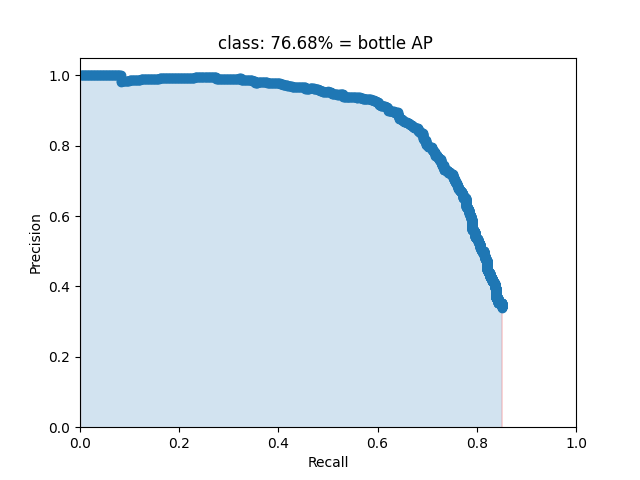
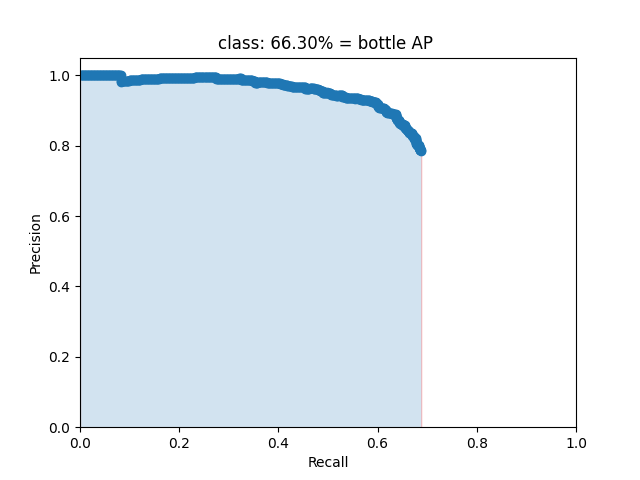
some color changes and add infomation in order to analysis clearly!

diff --git a/mAP/main.py b/mAP/main.py
@@ -9,7 +9,7 @@ import math
 
 import numpy as np
 
-MINOVERLAP = 0.3 # default value (defined in the PASCAL VOC2012 challenge)
+MINOVERLAP = 0.5 # default value (defined in the PASCAL VOC2012 challenge)
 
 parser = argparse.ArgumentParser()
 parser.add_argument('-na', '--no-animation', help="no animation is shown.", action="store_true")
@@ -246,6 +246,7 @@ def draw_plot_func(dictionary, n_classes, window_title, plot_title, x_label, out
     if true_p_bar != "":
         """
          Special case to draw in:
+            - blue -> Ground-truth
             - green -> TP: True Positives (object detected and matches ground-truth)
             - red -> FP: False Positives (object detected but does not match ground-truth)
             - pink -> FN: False Negatives (object not detected but present in the ground-truth)
@@ -602,9 +603,9 @@ with open(output_files_path + "/output.txt", 'w') as output_file:
                 height, widht = img.shape[:2]
                 # colors (OpenCV works with BGR)
                 white = (255,255,255)
-                light_blue = (255,200,100)
-                green = (0,255,0)
-                light_red = (30,30,255)
+                light_blue = (229,205,113)
+                green = (216,244,181)
+                light_red = (85,85,255)
                 # 1st line
                 margin = 10
                 v_pos = int(height - margin - (bottom_border / 2.0))
@@ -634,15 +635,19 @@ with open(output_files_path + "/output.txt", 'w') as output_file:
                 font = cv2.FONT_HERSHEY_SIMPLEX
                 if ovmax > 0: # if there is intersections between the bounding-boxes
                     bbgt = [ int(round(float(x))) for x in gt_match["bbox"].split() ]
-                    cv2.rectangle(img,(bbgt[0],bbgt[1]),(bbgt[2],bbgt[3]),light_blue,2)
-                    cv2.rectangle(img_cumulative,(bbgt[0],bbgt[1]),(bbgt[2],bbgt[3]),light_blue,2)
-                    cv2.putText(img_cumulative, class_name, (bbgt[0],bbgt[1] - 5), font, 0.5, (0,0,0), 2, cv2.LINE_AA)
-                    cv2.putText(img_cumulative, class_name, (bbgt[0],bbgt[1] - 5), font, 0.5, light_blue, 1, cv2.LINE_AA)
+                    cv2.rectangle(img,(bbgt[0],bbgt[1]),(bbgt[2],bbgt[3]),light_blue,3)
+                    cv2.rectangle(img_cumulative,(bbgt[0],bbgt[1]),(bbgt[2],bbgt[3]),light_blue,3)
+                    cv2.putText(img_cumulative, 'GT', (bbgt[0],bbgt[1] - 5), font, 0.5, (0,0,0), 7)
+                    cv2.putText(img_cumulative, 'GT', (bbgt[0],bbgt[1] - 5), font, 0.5, light_blue, 2)
                 bb = [int(i) for i in bb]
-                cv2.rectangle(img,(bb[0],bb[1]),(bb[2],bb[3]),color,2)
-                cv2.rectangle(img_cumulative,(bb[0],bb[1]),(bb[2],bb[3]),color,2)
-                cv2.putText(img_cumulative, class_name, (bb[0],bb[1] - 5), font, 0.5, (0,0,0), 2, cv2.LINE_AA)
-                cv2.putText(img_cumulative, class_name, (bb[0],bb[1] - 5), font, 0.5, color, 1, cv2.LINE_AA)
+                cv2.rectangle(img,(bb[0],bb[1]),(bb[2],bb[3]),color,3)
+                cv2.rectangle(img_cumulative,(bb[0],bb[1]),(bb[2],bb[3]),color,3)
+                if status == "MATCH!":
+                    cv2.putText(img_cumulative, f'{class_name} {round(float(detection["confidence"])*100)}%', (bb[0],bb[1] - 5), font, 0.5, (0,0,0), 7)
+                    cv2.putText(img_cumulative, f'{class_name} {round(float(detection["confidence"])*100)}%', (bb[0],bb[1] - 5), font, 0.5, color, 2)
+                else:
+                    cv2.putText(img_cumulative, f'FP ({status}) {round(float(detection["confidence"])*100)}%', (bb[0],bb[1] - 5), font, 0.5, (0,0,0), 7)
+                    cv2.putText(img_cumulative, f'FP ({status}) {round(float(detection["confidence"])*100)}%', (bb[0],bb[1] - 5), font, 0.5, color, 2)
                 # show image
                 #cv2.imshow("Animation", img)
                 #cv2.waitKey(20) # show for 20 ms
@@ -733,7 +738,7 @@ with open(output_files_path + "/output.txt", 'w') as output_file:
  Draw false negatives
 """
 if show_animation:
-    pink = (203,192,255)
+    pink = (213, 222, 255)
     for tmp_file in gt_files:
         ground_truth_data = json.load(open(tmp_file))
         #print(ground_truth_data)
@@ -749,7 +754,9 @@ if show_animation:
         for obj in ground_truth_data:
             if not obj['used']:
                 bbgt = [ int(round(float(x))) for x in obj["bbox"].split() ]
-                cv2.rectangle(img,(bbgt[0],bbgt[1]),(bbgt[2],bbgt[3]),pink,2)
+                cv2.rectangle(img,(bbgt[0],bbgt[1]),(bbgt[2],bbgt[3]),pink,3)
+                cv2.putText(img, 'FN', (bbgt[0],bbgt[1] - 5), font, 0.5, (0,0,0), 7)
+                cv2.putText(img, 'FN', (bbgt[0],bbgt[1] - 5), font, 0.5, pink, 2)
         cv2.imwrite(img_cumulative_path, img)
 
 # remove the temp_files directory

diff --git a/mAP_create_detections.py b/mAP_create_detections.py
@@ -44,7 +44,7 @@ def parser():
     parser.add_argument(
             "--save_image_dir", 
             type=str, 
-            default="",
+            default="predict/cv5-1_test/",
             help="path to save detection images")
 
     parser.add_argument(
@@ -131,7 +131,7 @@ if __name__ == '__main__':
         if args.save_image_dir:
             frame = darknet.draw_boxes(detections, frame, class_colors, darknet_width)
             cv2.imwrite(args.save_image_dir + 'out_' + name, frame)
-            print(f'- [x] save image {name} to {args.save_image_dir}')
+            #print(f'- [x] save image {name} to {args.save_image_dir}')
 
         if args.detection_dir:
             # save detections to  txt file

diff --git a/mAP/README.md b/mAP/README.md
@@ -32,5 +32,5 @@ Special case to draw in:
 
         - pink -> FN: False Negatives (object not detected but present in the ground-truth)
         
-        - blue -> ground thruth bbox
+        - blue -> ground-truth bbox
 ```
